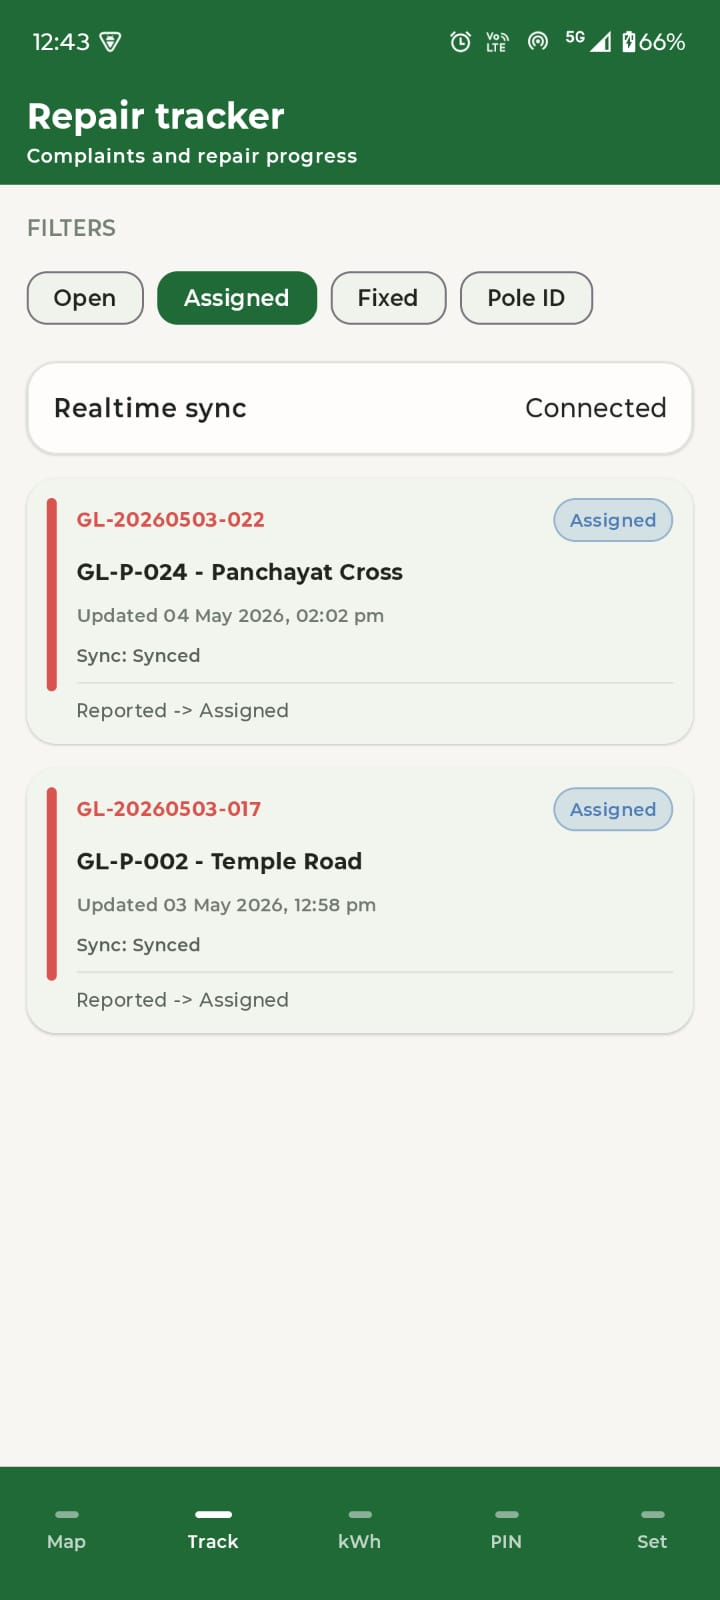
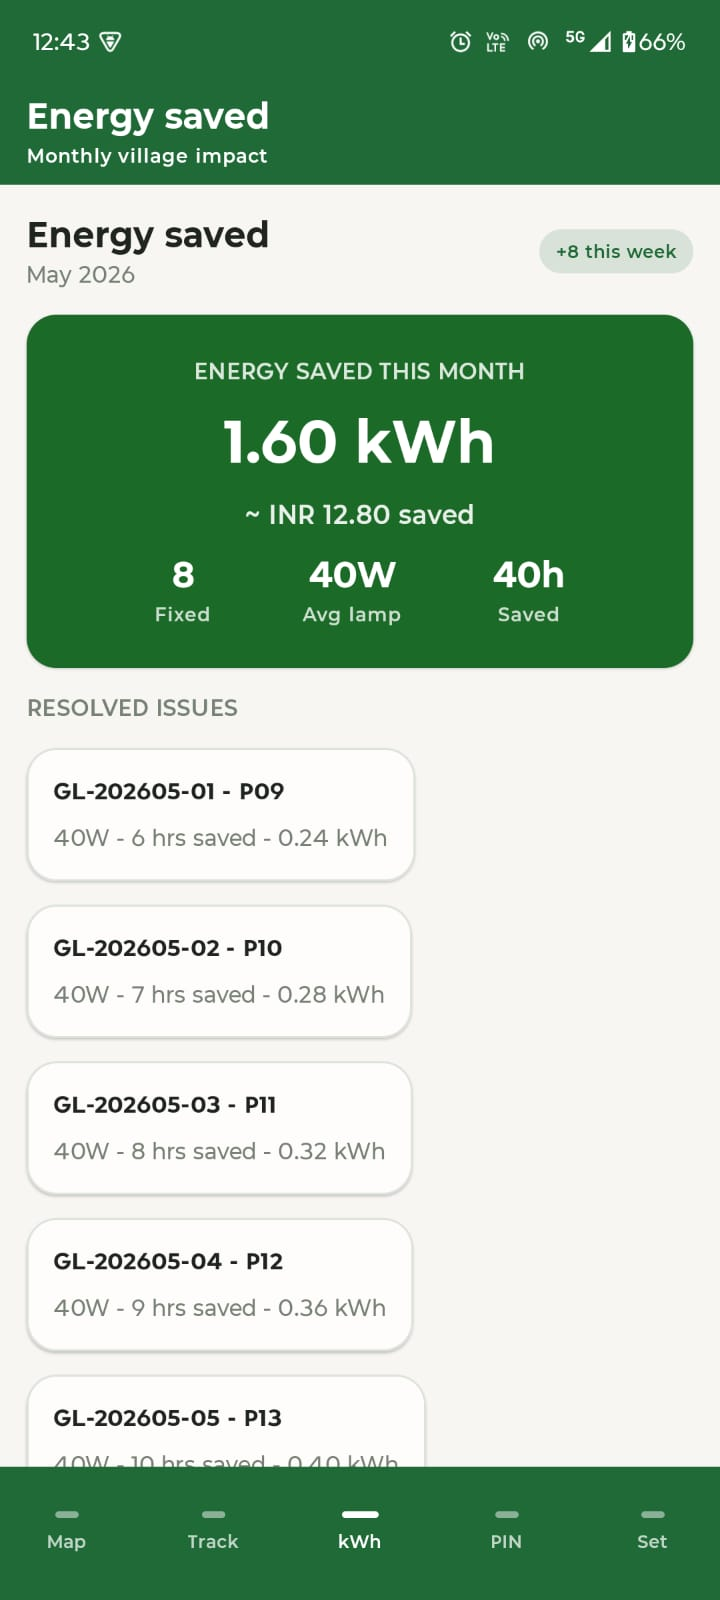
docs: correct screenshot titles and mappings

diff --git a/README.md b/README.md
@@ -158,6 +158,10 @@ Detailed setup steps:
 
 ![Pole Map](docs/screenshots/pole-map.jpeg)
 
+### Quick Report
+
+![Quick Report](docs/screenshots/quick-report.jpeg)
+
 ### Repair Tracker
 
 ![Repair Tracker](docs/screenshots/repair-tracker.jpeg)
@@ -170,13 +174,13 @@ Detailed setup steps:
 
 ![Energy Saved](docs/screenshots/energy-saved.jpeg)
 
+### Settings - Dark Theme
+
+![Settings Dark](docs/screenshots/settings-dark.jpeg)
+
 ### Settings - Light Theme
 
 ![Settings Light](docs/screenshots/settings-light.jpeg)
-
-### Settings - Night Theme
-
-![Settings Night](docs/screenshots/settings-night.jpeg)
 
 ### GenAI Summary
 